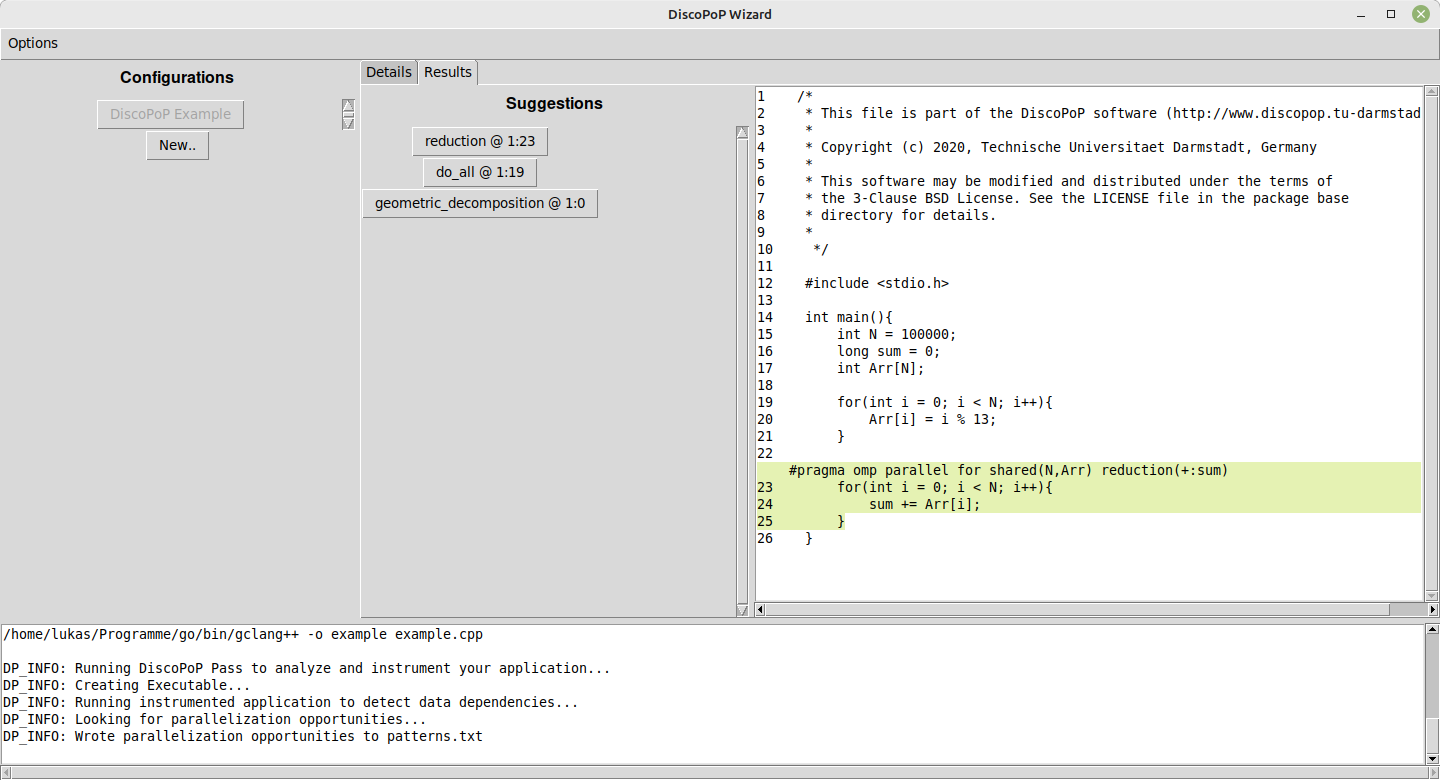
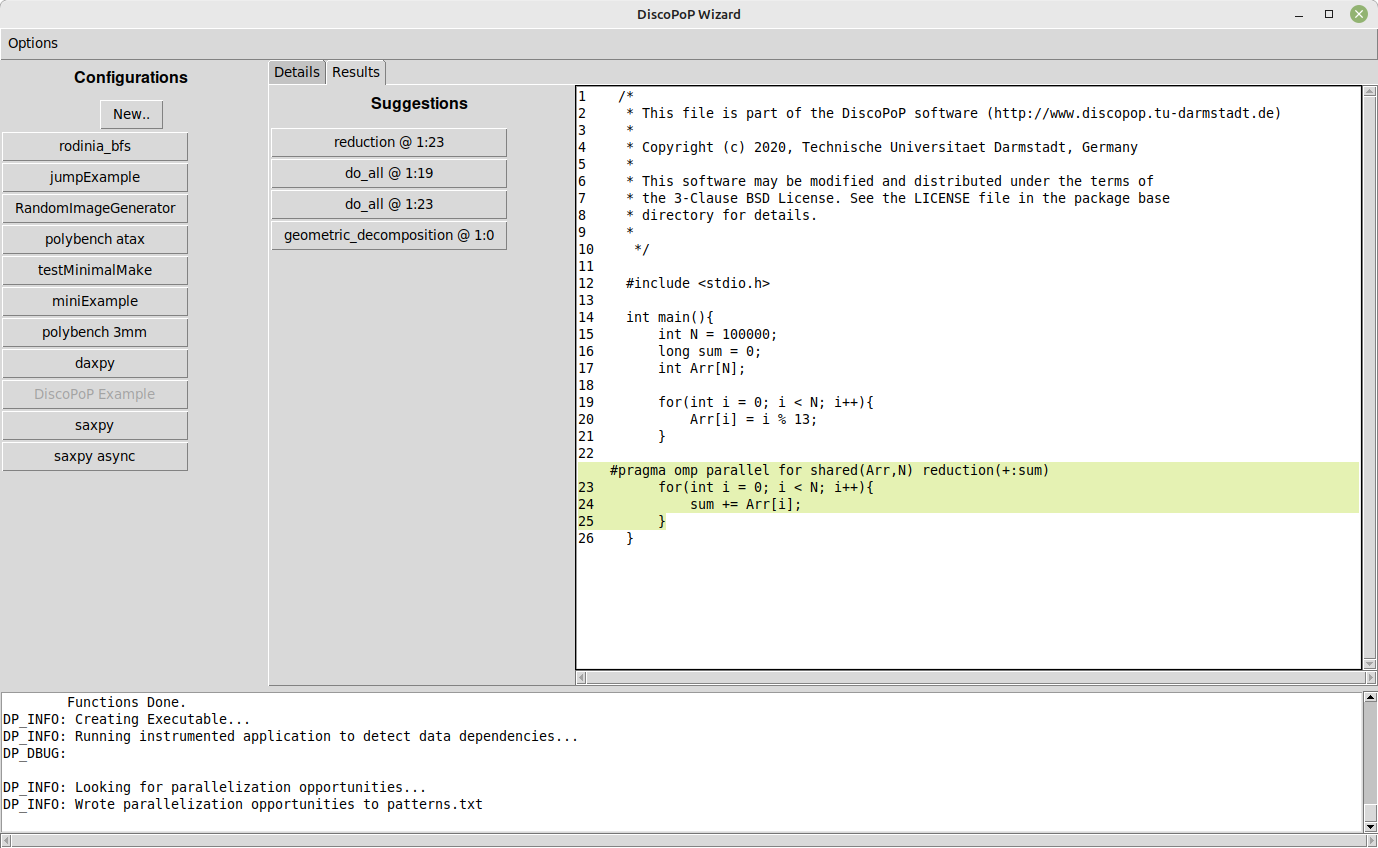
docs: updated semantics of identified reductions

diff --git a/discopop_explorer/pattern_detectors/do_all_detector.py b/discopop_explorer/pattern_detectors/do_all_detector.py
@@ -58,7 +58,7 @@ def run_detection(pet: PETGraphX) -> List[DoAllInfo]:
         print("Do-all:", idx, "/", len(nodes))
         if not contains(result, lambda x: x.node_id == node.id) and __detect_do_all(pet, node):
             node.do_all = True
-            if node.loop_iterations >= 0:
+            if node.loop_iterations >= 0:  # and not node.reduction:  keep old code for potential reversing
                 result.append(DoAllInfo(pet, node))
 
     return result

diff --git a/docs/Manual_Quickstart/Manual_Example.md b/docs/Manual_Quickstart/Manual_Example.md
@@ -80,24 +80,25 @@ In order to generate parallelization suggestions from the [gathered data](../Pro
     discopop_explorer --path=. --dep-file=out_prof_dep.txt
 
 By default, the DiscoPoP Explorer outputs parallelization suggestions to the console.
-It should show three different suggestions in total.
-* The first should be a `Do-all` with the `Start line 1:19`.
-* The second should be  `Reduction` with the `Start line 1:23`.
-* The third should be a `Geometric Decomposition`.
+It should show four different suggestions in total.
+* Two `Do-all` suggestions, 
+* one `Reduction` suggestion,
+* and one `Geometric Decomposition`.
 
 ## Step 3: Interpreting and Implementing the Suggestions
 For detailed information on how to interpret and implement the created suggestions, please refer to the [pattern wiki](../Pattern_Detection/Patterns/Patterns.md).
 
 Looking at the created suggestions there are two ways that the code can be parallelized (the parallelized code can be found inside the example directory as `solution1.cpp` and `solution2.cpp`):
 
-* **Implementing the Do-All and Reduction Patterns**<br/> To implement the `Do-All` and `Reduction` patterns all we have to do is to add the suggested pragma before each loop. Make sure to add the `reduction` clause when implementing Reductions! The DiscoPoP Explorer also suggests classifications for used variables to ensure correctness and improve performance. These should be added as clauses to the pragma. Note that OpenMP implicitly makes some variables like the loop index a private variable so we can omit the corresponding clauses.
-  - To implement the `Do-All` suggestion we add the following line before the corresponding loop.
+* **Implementing the Do-All and Reduction Patterns**<br/> 
+To implement the suggested `Do-All` patterns, all we have to do is to add the suggested pragma before each loop. One of the suggestions should contain a suggested `reduction` clause. Make sure to add the `reduction` clause when implementing this `Do-All` pattern! The suggested `Reduction` pattern does not provide a pragma to be inserted, as it relies on the previously mentioned `Do-All` and is only suggested as a possible hint towards the user. In addition, the DiscoPoP Explorer also suggests classifications for used variables to ensure correctness and improve performance. These should be added as clauses to the pragma. Note that OpenMP implicitly makes some variables like the loop index a private variable so we can omit the corresponding clauses.
+  - To implement the first `Do-All` suggestion we add the following line before the corresponding loop.
       
         #pragma omp parallel for shared(Arr,N)
 
-  - To implement the `Reduction` suggestion we add the following line before the corresponding loop.
-    
-        # pragma omp parallel for reduction(+:sum) shared(Arr,N)
+  - To implement the second `Do-All` suggestion, which contains the `Reduction`, we add the following line before the corresponding loop.
+
+        #pragma omp parallel for reduction(+:sum) shared(Arr,N)
 
   - For this specific example, when we implement both patterns it is better to open only one parallel region with `#pragma omp parallel` and use the `pragma omp for` before each loop:
 

diff --git a/docs/Pattern_Detection/Patterns/Reduction.md b/docs/Pattern_Detection/Patterns/Reduction.md
@@ -13,11 +13,11 @@ Reduction Loops are reported in the following format:
 Reduction at: 1:2
 Start line: 1:7
 End line: 1:9
-pragma: "#pragma omp parallel for"
+pragma: "// POTENTIAL REDUCTION: "
 private: []
 shared: []
 first private: []
-reduction: []
+reduction: ['-:y']
 last private: []
 ```
 
@@ -26,7 +26,7 @@ The reported values shall be interpreted as follows:
 * `Reduction at: <file_id>:<cu_id>`, where the respective parent file can be looked up in the `FileMapping.txt` using `file_id` and `cu_id` can be used for a look up in `Data.xml`
 * `Start line: <file_id>:<line_num>`, where `line_num` refers to the source code line of the parallelizable loop.
 * `End line: <file_id>:<line_num>`, where `line_num` refers to the last line of the parallelizable loop.
-* `pragma:`shows which type of OpenMP pragma shall be inserted before the target loop in order to parallelize it.
+* `pragma:`since the `Reduction` pattern relies on `Do-All` or other patterns for a implementation suggestion, instead of a pragma, a simple comment to hint the user towards potential reduction operations and thus potential code improvements is added here.
 * `private: [<vars>]` lists a set of variables which have been identified as thread-`private`
 * The same interpretation applies to the following values aswell:
     * `shared`
@@ -35,14 +35,9 @@ The reported values shall be interpreted as follows:
 * `reduction: [<operation>:<var>]` specifies a set of identified reduction operations and variables.
 
 ## Implementation
-In order to implement a suggestion, first open the source code file corresponding to `file_id` and navigate to line `Start line -> <line_num>`.
-Insert `pragma` before the loop begins.
-In order to ensure a valid parallelization, you need to add the following clauses to the OpenMP pragma, if the respective lists are not empty:
-* `private` -> clause: `private(<vars>)`
-* `shared` -> clause: `shared(<vars>)`
-* `first_private` -> clause: `firstprivate(<vars>)`
-* `last_private` -> clause: `lastprivate(<vars>)`
-* `reduction`-> clause: `reduction(<operation>:<vars>)`
+The implementation of a `Reduction` pattern relies on the usage within a different suggested pattern.
+In case that a reduction shall be used in such a pattern, it will be marked via the inserted `reduction()` clauses.
+In case that no potential parallelism and thus no other pattern is suggested which makes use of the identified reduction, the identified `Reduction` pattern is to be seen as a hint for potential code improvements and / or restructuring.
 
 ### Example
 As an example, we will analyze the following code snippet for parallelization potential. All location and meta data will be ignored for the sake of simplicity.
@@ -51,7 +46,7 @@ As an example, we will analyze the following code snippet for parallelization po
         local_var *= global_array[i];
     }
 
-Analyzing this code snippet results in the following parallelization suggestion:
+Analyzing this code snippet results in the following parallelization suggestion, which will be presented via the `Do-All` pattern:
 ```
 pragma: "#pragma omp parallel for"
 private: ["i"]
